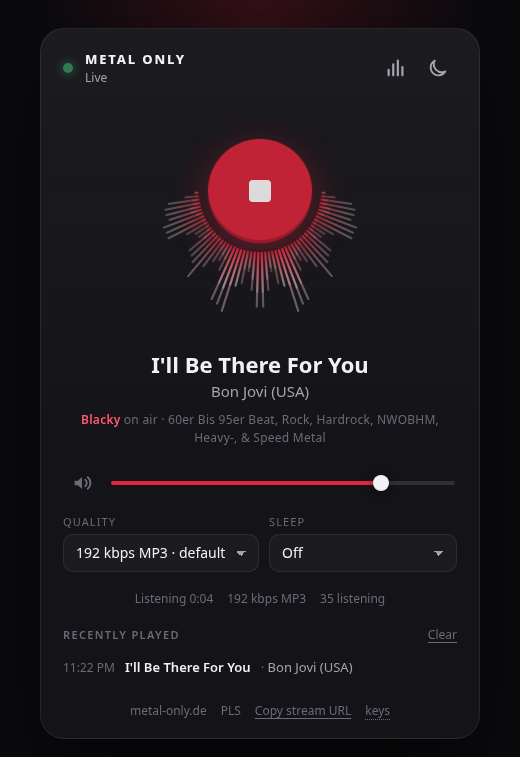
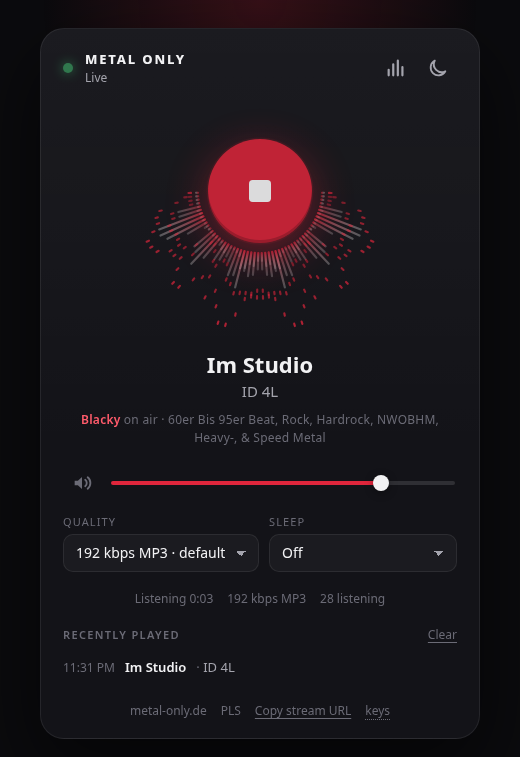
Visualizer: peak caps that hold and then fall

diff --git a/public/app.js b/public/app.js
@@ -383,7 +383,11 @@
   const RELEASE = 0.86;         // per-frame decay of a bar once the signal drops
   const DB_LO = -62, DB_HI = -26; // band power range mapped to bar length 0..1 (measured on the live stream)
   const TILT_DB = 8;             // gentle lift toward the top band so treble is not always the runt
+  const PEAK_HOLD = 18;         // frames a peak cap sits still before it starts to fall
+  const PEAK_FALL = 0.012;      // how much a cap drops per frame once it lets go
   let levels = new Float32Array(BANDS);
+  const peaks = new Float32Array(BANDS);
+  const peakHold = new Uint8Array(BANDS);
   const bandDb = new Float32Array(BANDS);
   // ?debug=1 exposes the band readings so they can be inspected from the console.
   if (new URLSearchParams(location.search).has('debug')) window.__viz = { levels, bandDb };
@@ -442,6 +446,15 @@
         bandDb[i] = db;
         const v = Math.min(1, Math.max(0, (db - DB_LO) / (DB_HI - DB_LO))) ** 1.3;
         levels[i] = v > levels[i] ? v : levels[i] * RELEASE;
+        // Peak caps: jump up with the bar, hold, then fall at a steady pace.
+        if (levels[i] >= peaks[i]) {
+          peaks[i] = levels[i];
+          peakHold[i] = PEAK_HOLD;
+        } else if (peakHold[i] > 0) {
+          peakHold[i] -= 1;
+        } else {
+          peaks[i] = Math.max(levels[i], peaks[i] - PEAK_FALL);
+        }
       }
 
       const W = el.viz.width, H = el.viz.height;
@@ -453,7 +466,7 @@
       const cx = (br.left + br.width / 2 - vr.left) * dpr;
       const cy = (br.top + br.height / 2 - vr.top) * dpr;
       const inner = (br.width / 2 + 10) * dpr;     // just outside the button
-      const maxLen = Math.min(cx, H - cy) - inner - 4 * dpr;
+      const maxLen = Math.min(cx, H - cy) - inner - 10 * dpr;
       const step = Math.PI / BANDS;                // angle between bars on one side
       const bw = Math.max(1.5 * dpr, inner * step * 0.62);
 
@@ -471,12 +484,20 @@
         grad.addColorStop(1, colors.c2);
         ctx2d.strokeStyle = grad;
         ctx2d.globalAlpha = 0.4 + v * 0.6;
+        const cap = inner + Math.max(len, peaks[i] * maxLen) + 5 * dpr;
         for (const side of [1, -1]) {
           ctx2d.save();
           ctx2d.rotate(side * a);
           ctx2d.beginPath();
           ctx2d.moveTo(0, inner);
           ctx2d.lineTo(0, inner + len);
+          ctx2d.stroke();
+          // The cap: a short dash a little beyond the bar's peak.
+          ctx2d.strokeStyle = colors.c1;
+          ctx2d.globalAlpha = 0.55 + peaks[i] * 0.45;
+          ctx2d.beginPath();
+          ctx2d.moveTo(0, cap);
+          ctx2d.lineTo(0, cap + 2.5 * dpr);
           ctx2d.stroke();
           ctx2d.restore();
         }
@@ -494,6 +515,7 @@
   function clearViz() {
     ctx2d.clearRect(0, 0, el.viz.width, el.viz.height);
     levels.fill(0);
+    peaks.fill(0);
     setBass(0);
   }
 

diff --git a/README.md b/README.md
@@ -55,7 +55,7 @@ URLs and metadata.
 - Volume with a perceptual curve, mute, both remembered.
 - Quality picker: 320 kbps AAC, 192 kbps MP3, 64 kbps AAC.
 - Now playing with DJ and show, plus a history of recent tracks.
-- Spectrum ring around the play button: log-spaced bands, fast attack and slow release, bass-driven glow (toggle with `v`).
+- Spectrum ring around the play button: log-spaced bands, fast attack and slow release, peak caps, bass-driven glow (toggle with `v`).
 - Sleep timer with a slow fade-out.
 - Auto-reconnect with backoff, and a switch to the backup servers if one host dies.
 - OS media keys and lock-screen info through the Media Session API.
